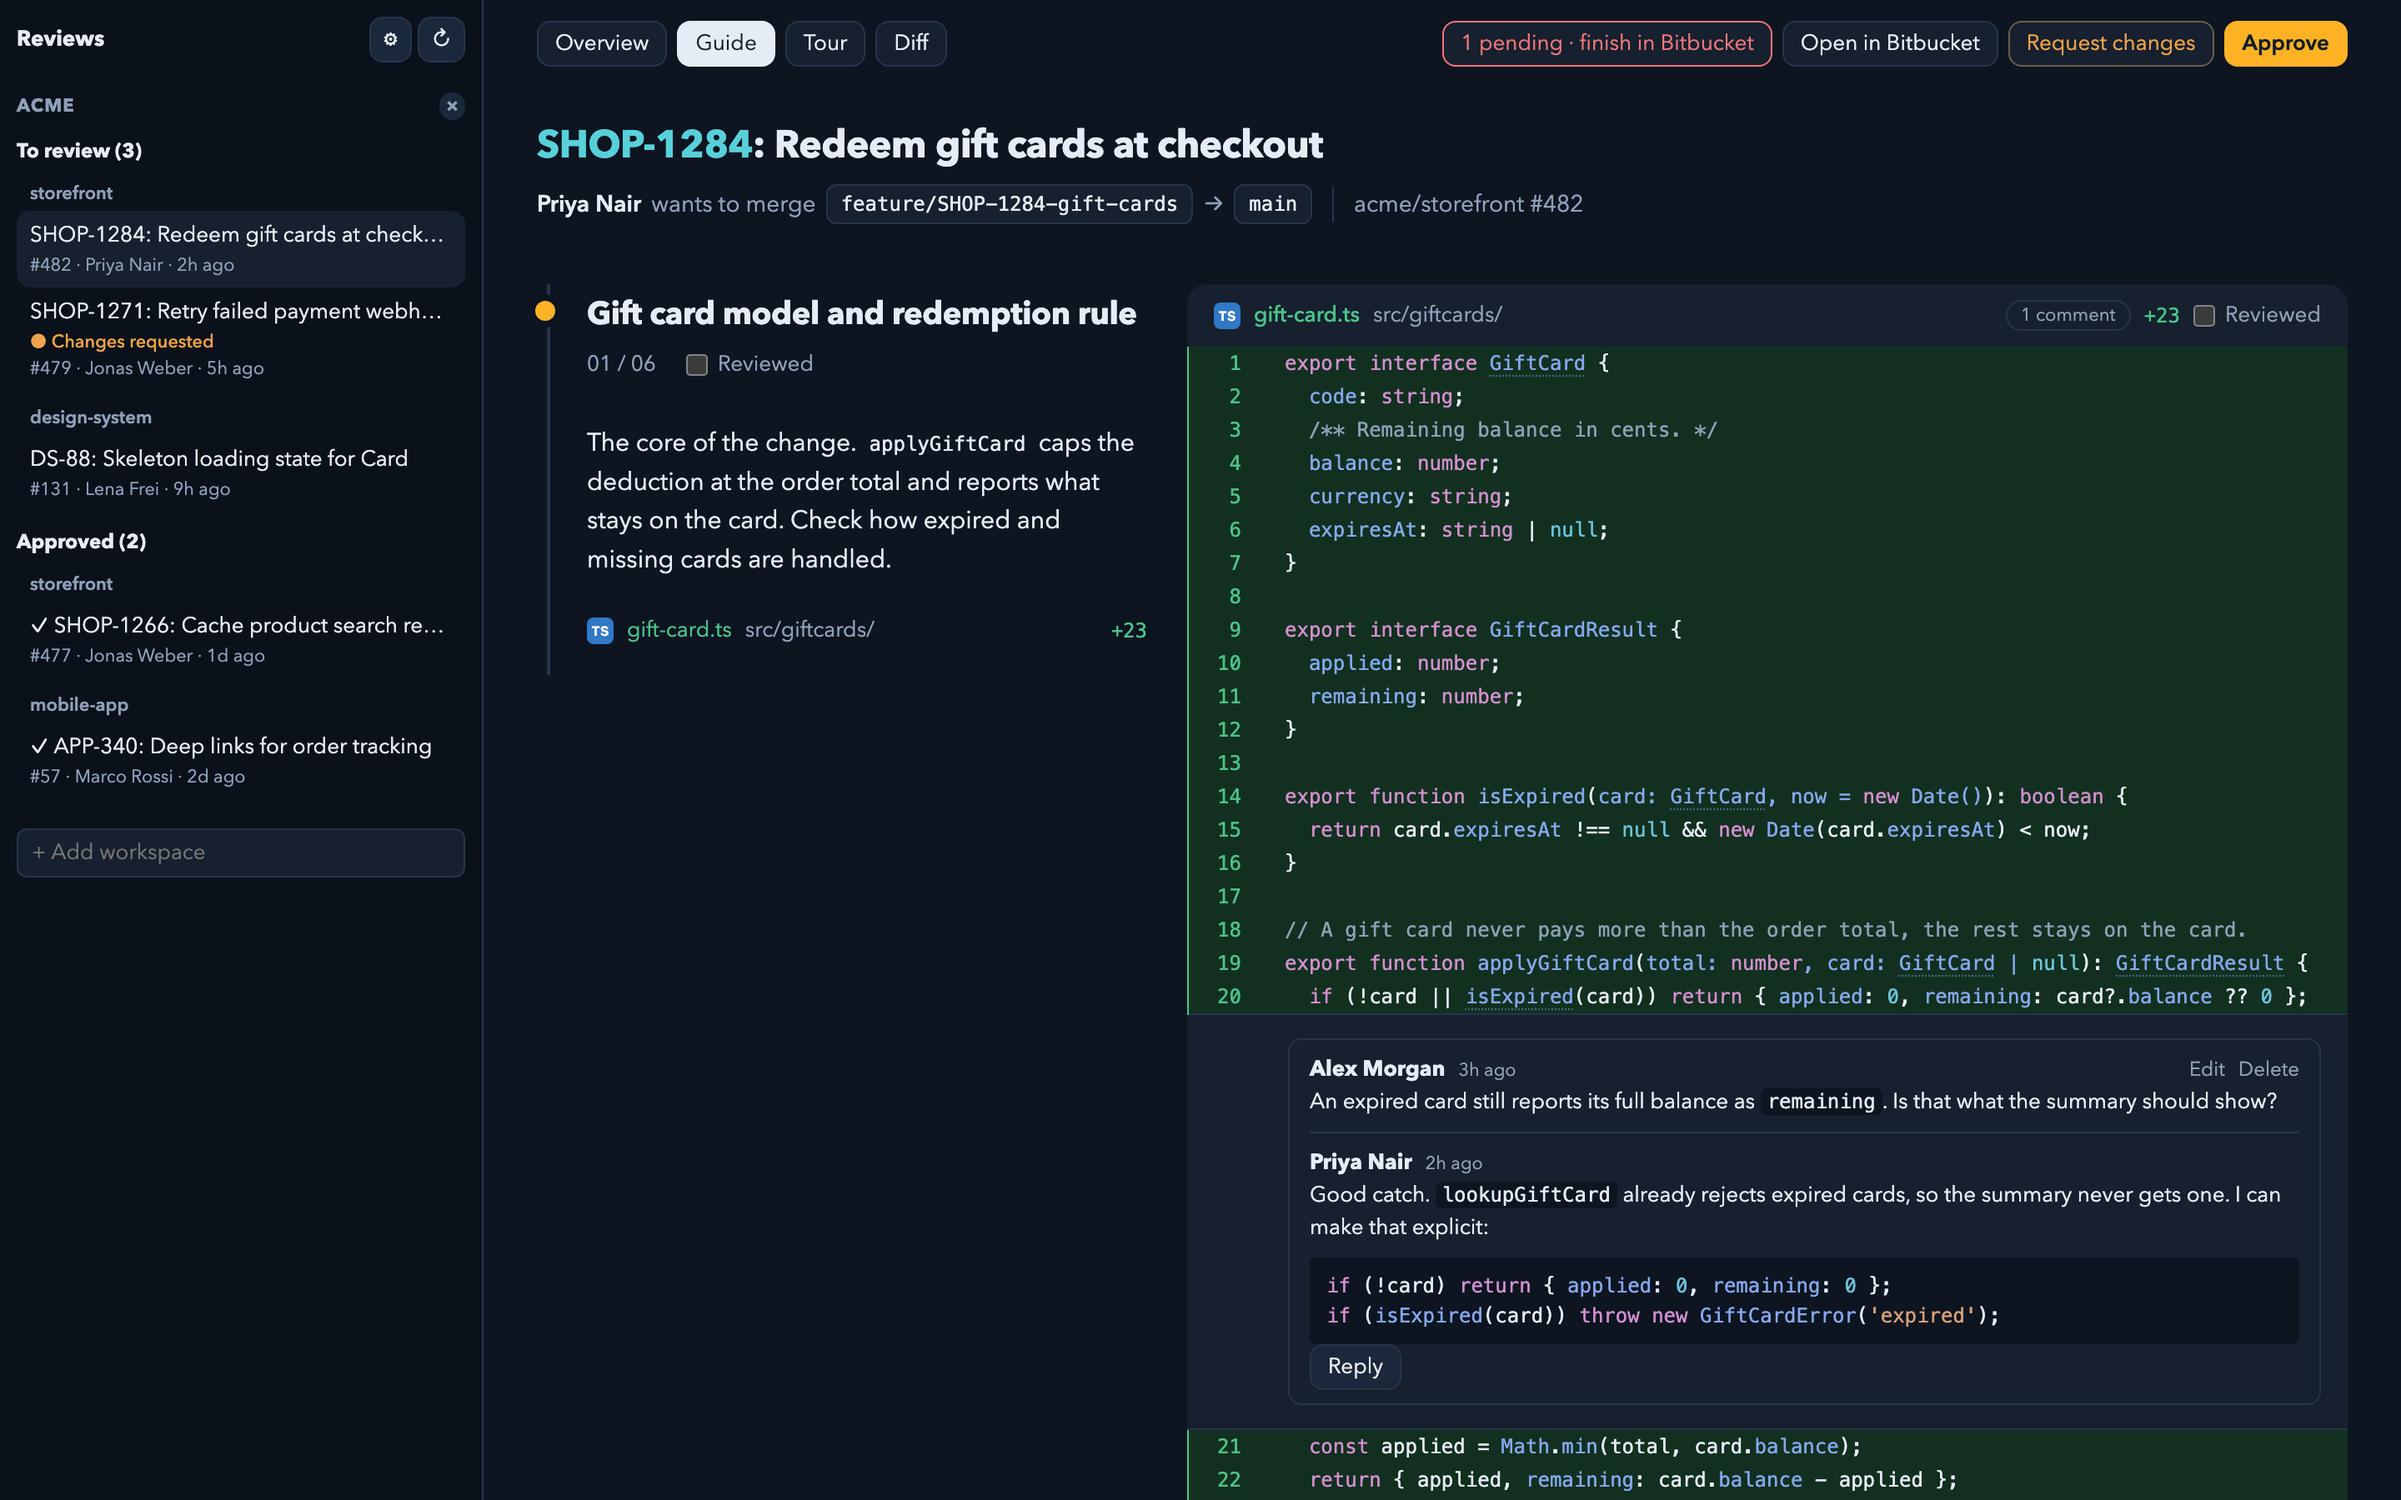
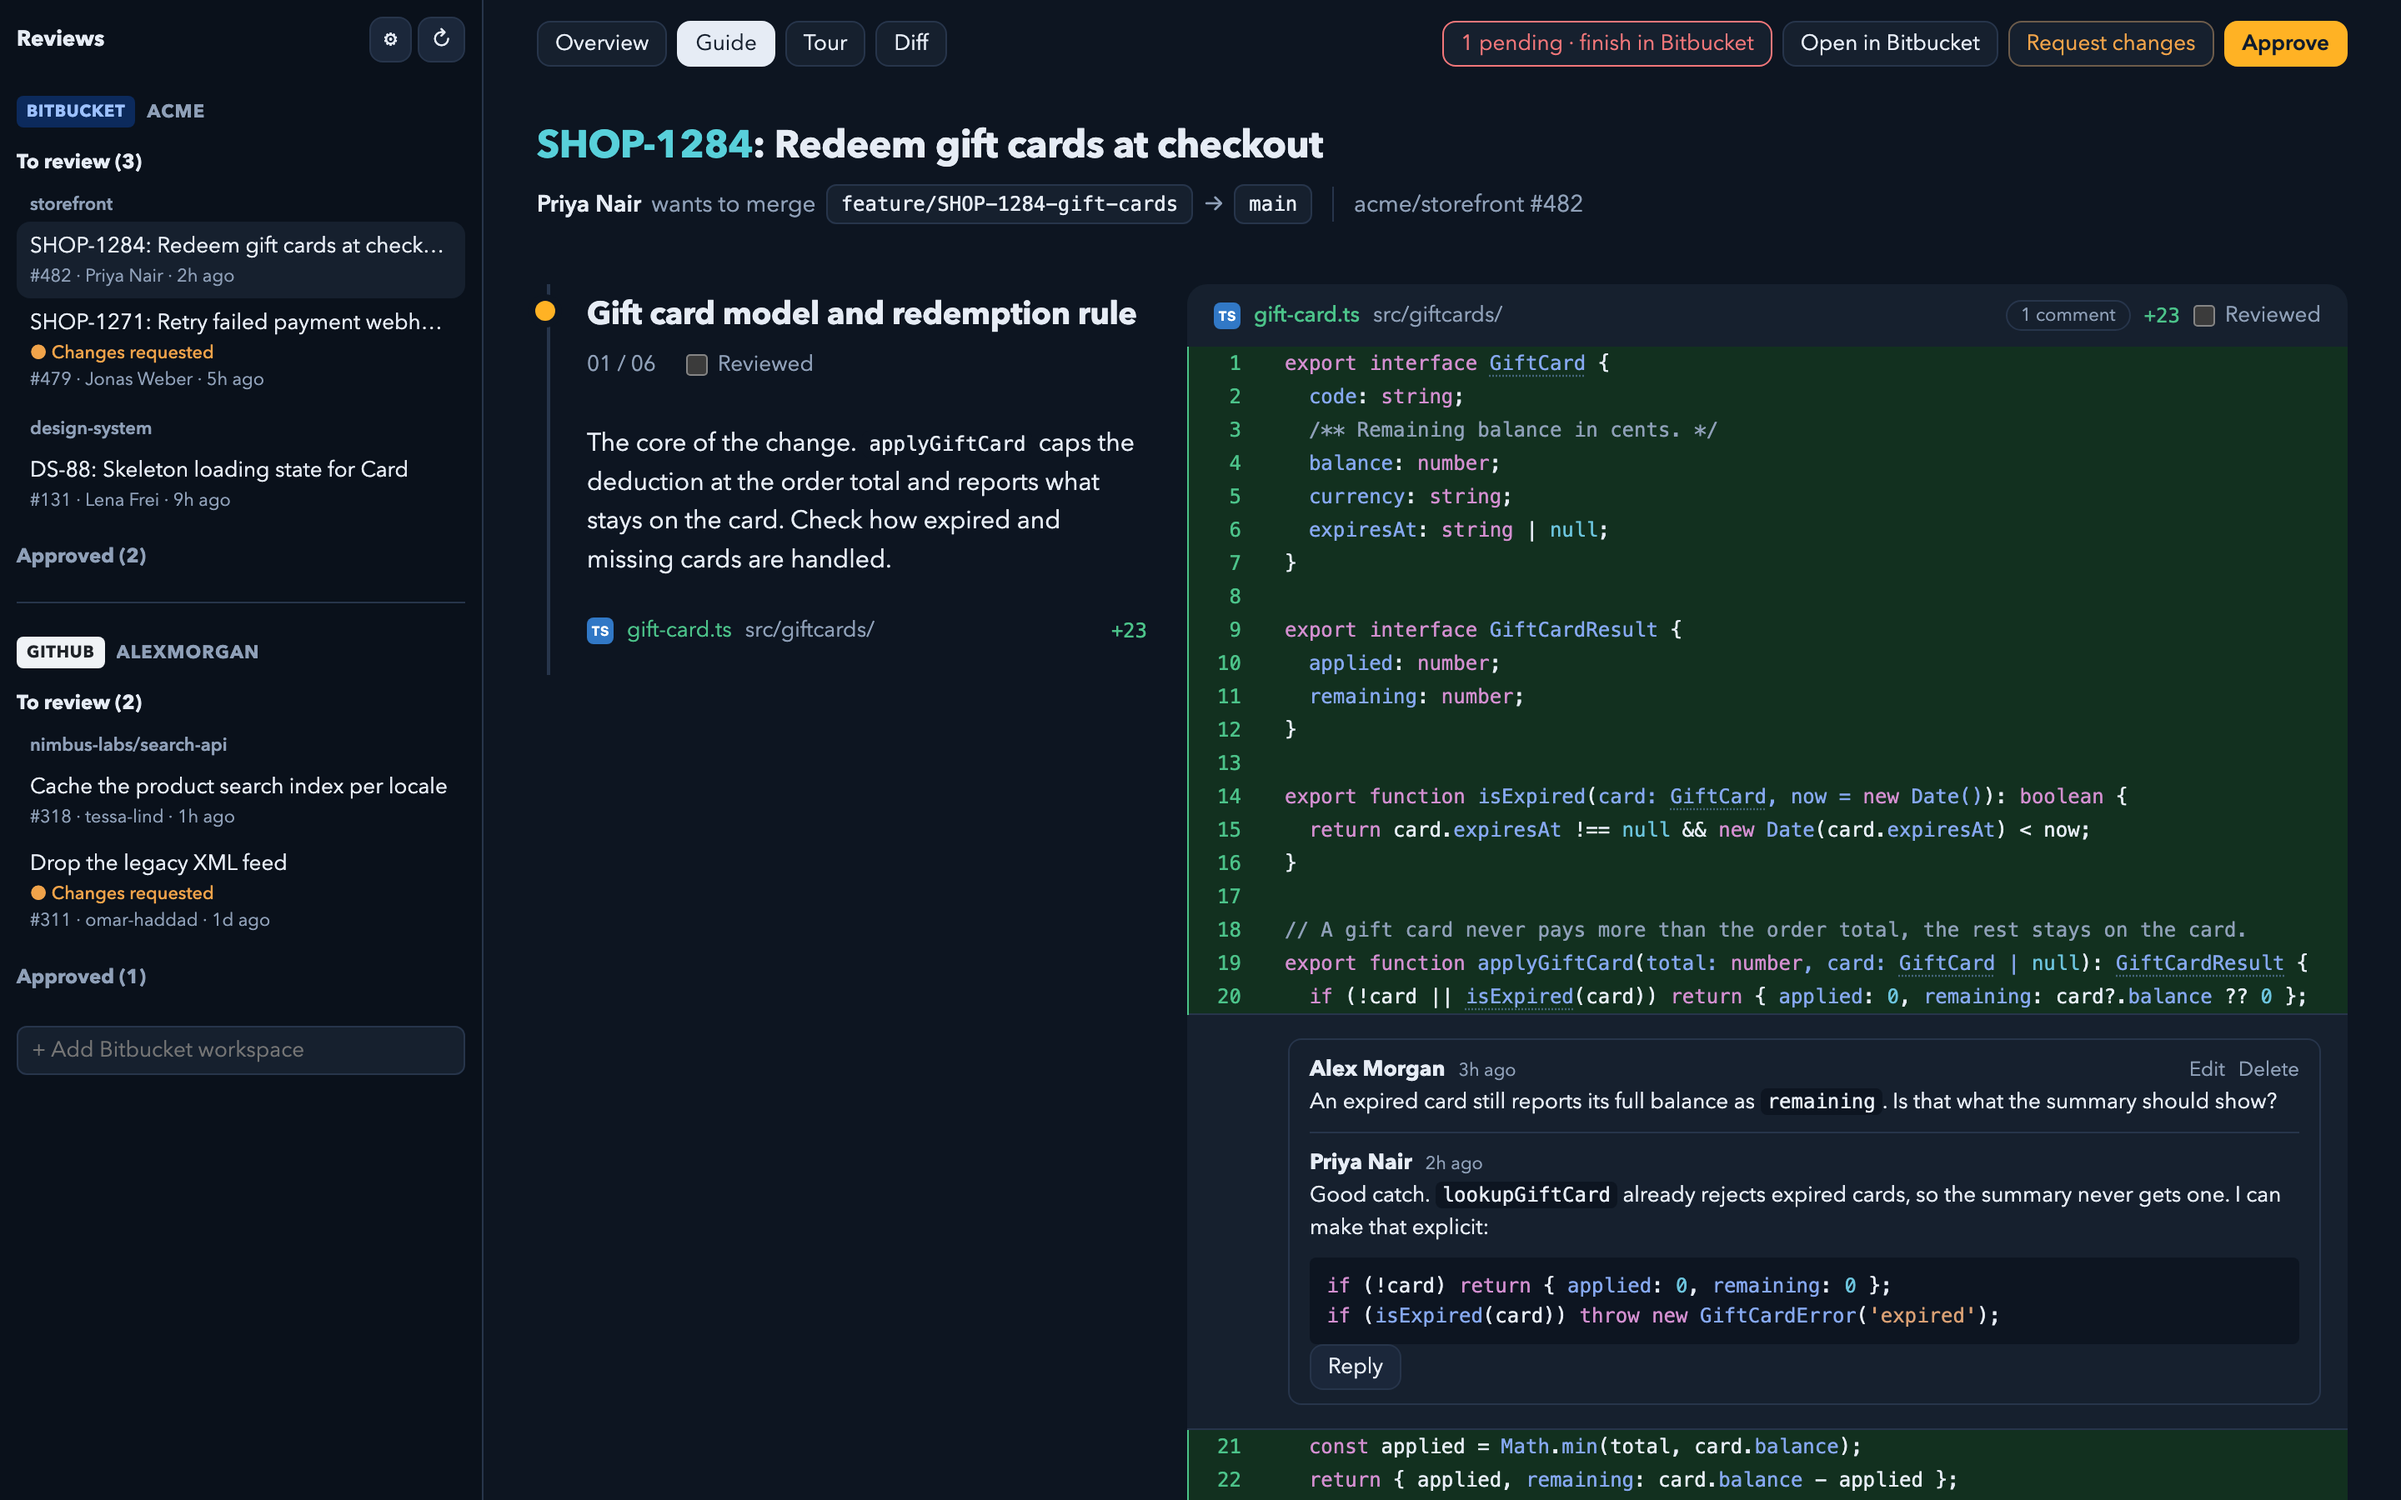
Release 0.6.0, website with GitHub and new screenshots

Changed region(s): [[0.0, 0.0622, 0.1875, 0.6533], [0.0312, 0.6844, 0.125, 0.7156]]

diff --git a/docs/index.html b/docs/index.html
@@ -3,10 +3,10 @@
 <head>
 <meta charset="utf-8">
 <meta name="viewport" content="width=device-width, initial-scale=1">
-<title>Better Review: guided pull request reviews for Bitbucket</title>
-<meta name="description" content="A desktop app for macOS and Windows that groups the files of a Bitbucket pull request, explains what changed and walks you through it step by step.">
+<title>Better Review: guided pull request reviews for Bitbucket and GitHub</title>
+<meta name="description" content="A desktop app for macOS and Windows that groups the files of a Bitbucket or GitHub pull request, explains what changed and walks you through it step by step.">
 <meta property="og:title" content="Better Review">
-<meta property="og:description" content="Guided pull request reviews for Bitbucket. Read a guide, follow a tour, approve.">
+<meta property="og:description" content="Guided pull request reviews for Bitbucket and GitHub. Read a guide, follow a tour, approve.">
 <meta property="og:image" content="https://betterreview.app/screenshots/hero.png">
 <style>
   /* No web fonts and no third-party requests. The one inline script is the light/dark switch. */
@@ -76,6 +76,7 @@
   .stop { display: grid; grid-template-columns: minmax(0, 5fr) minmax(0, 8fr); gap: 1.5rem clamp(1.5rem, 4vw, 4rem); align-items: start; padding-block: clamp(2.5rem, 6vw, 5rem); border-bottom: 1px solid var(--rule); }
   .stop:last-child { border-bottom: 0; }
   .stops.follow { padding-top: 0; border-top: 1px solid var(--rule); }
+  .shot.narrow { max-width: 18.125rem; justify-self: center; }
   /* Same route as in the app: teal behind you, amber where you are. */
   .bar { display: flex; align-items: center; gap: 6px; margin: 0 0 1.25rem; font-size: 0.875rem; color: var(--soft); }
   .bar i { width: 2.25rem; height: 5px; border-radius: 3px; background: var(--rule); }
@@ -123,7 +124,7 @@
 
   <main>
     <h1 class="diff">
-      <span class="hunk">@@ reviewing a Bitbucket pull request @@</span>
+      <span class="hunk">@@ reviewing a pull request on Bitbucket or GitHub @@</span>
       <del>Open forty files and work out what this is about</del>
       <del>Read the diff top to bottom, in alphabetical order</del>
       <ins>Read a guide that groups the files and says what changed</ins>
@@ -132,7 +133,7 @@
     </h1>
 
     <div class="lede">
-      <p>Better Review is a desktop app for the pull requests waiting for your review on Bitbucket Cloud. It explains each one before you read a line of code, using the AI agent you already have: Claude Code or GitHub Copilot.</p>
+      <p>Better Review is a desktop app for the pull requests waiting for your review on Bitbucket Cloud and GitHub. It explains each one before you read a line of code, using the AI agent you already have: Claude Code or GitHub Copilot.</p>
       <div class="actions">
         <a class="button" href="https://github.com/hohler/better-review/releases/latest">Download for macOS</a>
         <a class="button quiet" href="https://github.com/hohler/better-review/releases/latest">Download for Windows</a>
@@ -195,7 +196,7 @@
           <p class="bar"><i class="done"></i><i class="done"></i><i class="done"></i><i class="now"></i><span>Stop 4 of 4</span></p>
           <h3>Approve, or ask for changes</h3>
           <p>Approve and request changes sit at the top of every pull request. The overview shows who else is reviewing and where they stand, whether the builds passed, and how many files you have covered.</p>
-          <p>The sidebar keeps the pull requests still waiting for you apart from the ones you approved, and marks where you asked for changes.</p>
+          <p>The sidebar lists the pull requests still waiting for you and marks where you asked for changes. The ones you approved fold away.</p>
           <p class="check">You choose the agent and the model for the guide and for the tour. Nothing is generated until you open a pull request, so no AI credits are spent by accident.</p>
         </div>
         <picture class="shot">
@@ -206,6 +207,18 @@
     </section>
 
     <section class="stops follow">
+      <article class="stop">
+        <div>
+          <h3>Bitbucket and GitHub in one place</h3>
+          <p>Each Bitbucket workspace and your GitHub account get their own block in the sidebar, marked with a badge in the colour of the host. For GitHub you see every open pull request that waits for your review, across all organisations.</p>
+          <p>A pull request opens the same way from both: overview, guide, tour and diff. Comments, approvals and change requests go back to the host it came from.</p>
+          <p>Fold away a block you do not need right now. It then shows only how many pull requests are waiting.</p>
+        </div>
+        <picture class="shot narrow">
+          <source srcset="screenshots/web-sources-dark.png" media="(prefers-color-scheme: dark)">
+          <img src="screenshots/web-sources-light.png" width="580" height="1180" loading="lazy" alt="The sidebar with two blocks: a Bitbucket workspace with three pull requests to review, and GitHub with two.">
+        </picture>
+      </article>
       <article class="stop">
         <div>
           <h3>Follow a name to its definition</h3>
@@ -223,7 +236,7 @@
       <h2>What it runs on</h2>
       <div>
         <h3>Your own accounts</h3>
-        <p>The app has no server and no login of its own. It reads Bitbucket through the <code>twg</code> command line tool and writes guides through <code>claude</code> or <code>copilot</code>, each signed in as you.</p>
+        <p>The app has no server and no login of its own. It reads Bitbucket through the <code>twg</code> command line tool, GitHub through <code>gh</code>, and writes guides through <code>claude</code> or <code>copilot</code>, each signed in as you.</p>
       </div>
       <div>
         <h3>An agent with no tools</h3>
@@ -238,9 +251,9 @@
     <section class="install" id="install">
       <h2>Install</h2>
       <ol>
-        <li>Install <code>twg</code> and sign in to your Bitbucket workspace.</li>
+        <li>For Bitbucket install <code>twg</code>, for GitHub install <code>gh</code>, or both. Sign in.</li>
         <li>Install Claude Code or the GitHub Copilot CLI and sign in.</li>
-        <li>Download Better Review and open it. A short setup asks for your agent and your workspace.</li>
+        <li>Download Better Review and open it. A short setup asks for your agent and where your pull requests are.</li>
       </ol>
       <div class="actions">
         <a class="button" href="https://github.com/hohler/better-review/releases/latest">Open the release page</a>

diff --git a/docs/demo/index.html b/docs/demo/index.html
@@ -14,8 +14,8 @@ const q = new URLSearchParams(location.hash.slice(1));
 localStorage.clear();
 if (q.get('theme')) localStorage.setItem('theme', JSON.stringify(q.get('theme')));
 localStorage.setItem('agent', '"claude"');
-// &gh=1 adds GitHub as a second source.
-localStorage.setItem('workspaces', q.get('gh') ? '["acme","github.com"]' : '["acme"]');
+// Two sources, as in a real setup: one Bitbucket workspace and GitHub.
+localStorage.setItem('workspaces', '["acme","github.com"]');
 
 const fx = async (name) => {
   const text = await (await fetch(`fx/${name}`)).text();

diff --git a/docs/demo/hero.html b/docs/demo/hero.html
@@ -22,7 +22,7 @@
 <body>
 <header>
   <h1>Review pull requests<br>with a guide at your side.</h1>
-  <p>Better Review groups the changed files, explains what happens and walks you through a Bitbucket pull request step by step.</p>
+  <p>Better Review groups the changed files, explains what happens and walks you through a Bitbucket or GitHub pull request step by step.</p>
 </header>
 <div class="window">
   <div class="bar"><i></i><i></i><i></i><span>Better Review</span></div>
